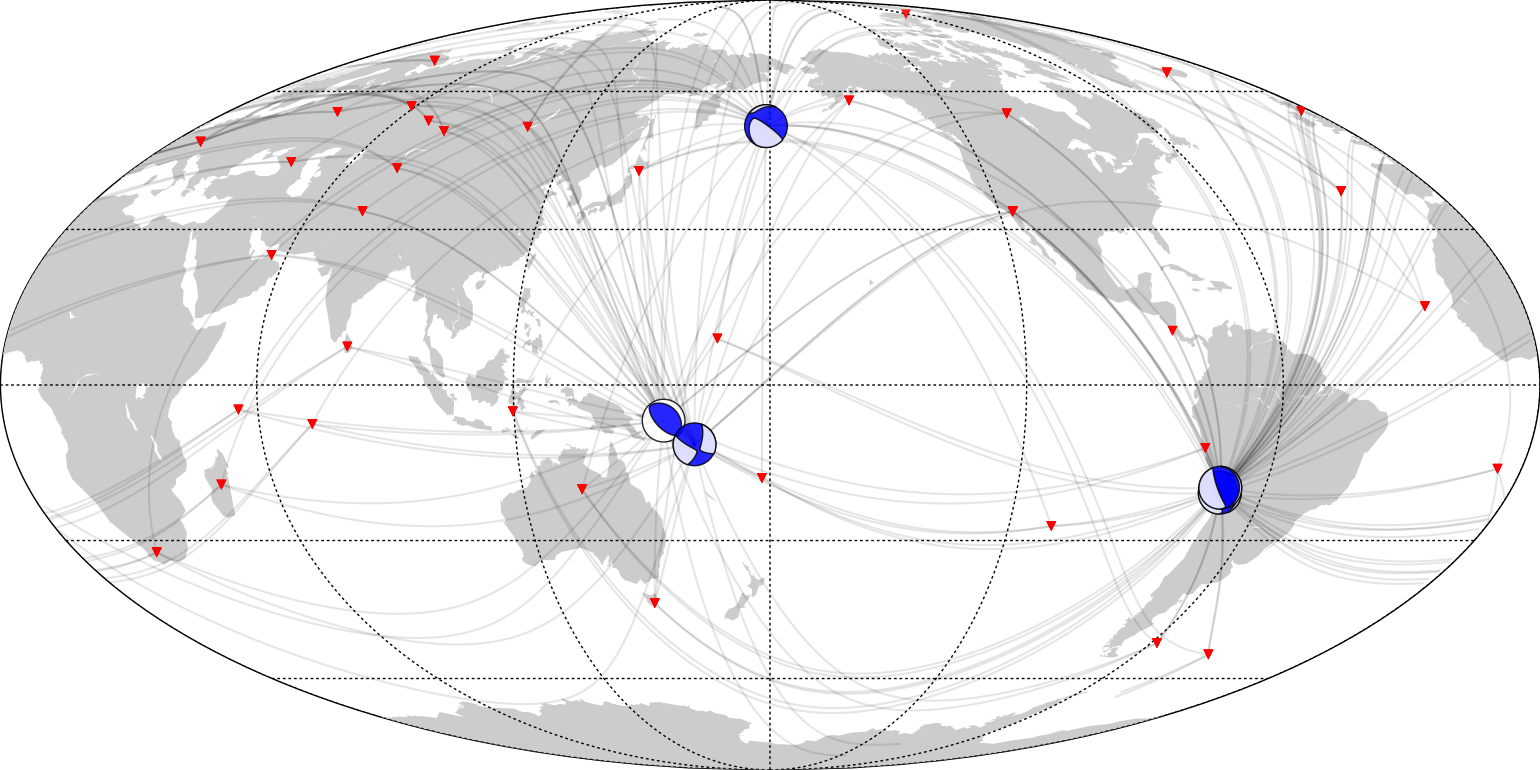
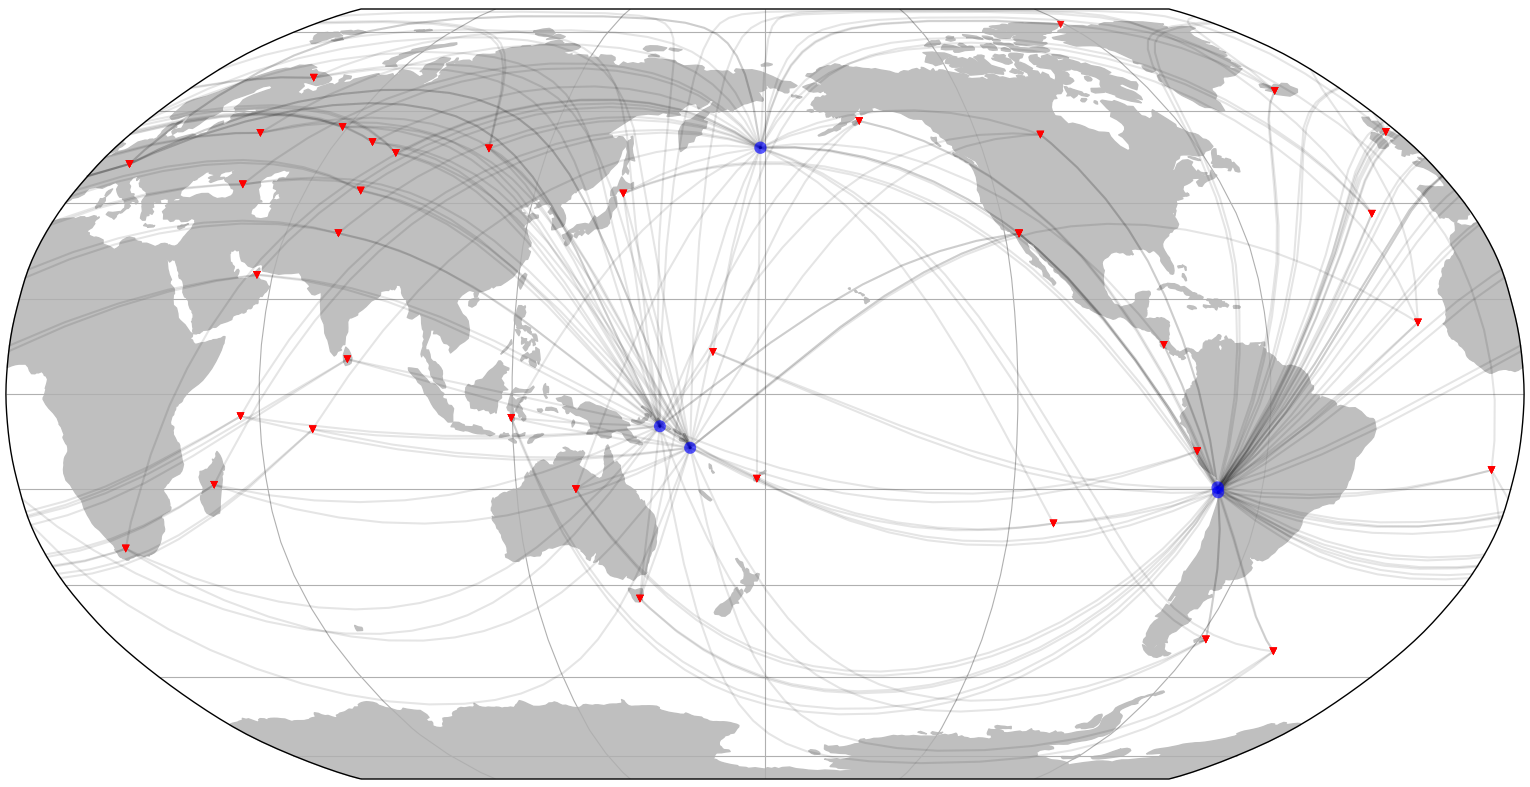
Update figure in README

diff --git a/README.md b/README.md
@@ -28,7 +28,7 @@ Table of contents
 ## Gallery
 
 
-| **Quick tour**                                                 <a href="#quick-tour">![](figures/quick_tour_ray.png)                                                 | **Earthquake meta-data**                                           <a href="#earthquake-meta-data">![](figures/neic_event_focal_2014_2015.png)                                   |
+| **Quick tour**                                                 <a href="#quick-tour">![](figures/quick_tour_ray.png)                                                 | **Earthquake meta-data**                                           <a href="#earthquake-meta-data">![](figures/neic_event_no_focal_2014_2015.png)                                   |
 | -------------------------------------------------------------------------------------------------------------------------------------------------------------------- | -------------------------------------------------------------------------------------------------------------------------------------------------------------------------------- |
 | **Seismicity map**                                             <a href="#seismicity-map">![](figures/japan_seismicity.png)                                           | **Event-based mode**                                               <a href="#event-based-mode">![](figures/iris_ev_based_mode.png)                                               |
 | **Update of an existing waveform data set**                    <a href="#update-an-existing-data-set">![](figures/iris_gfz_ipgp_ev_based.png)                        | **Time-continuous mode**                                           <a href="#time-continuous-mode">![](figures/continuous_example.png)                                           |
@@ -176,7 +176,7 @@ in which case each seismogram would have a different absolute start time.
 To plot the stations/events/rays:
 
 ```bash
-obspyDMT --datapath event_based_dir --local --plot_ev --plot_focal --plot_sta --plot_ray
+obspyDMT --datapath event_based_dir --local --plot_ev --plot_sta --plot_ray
 ```
 
 <p align="center">
